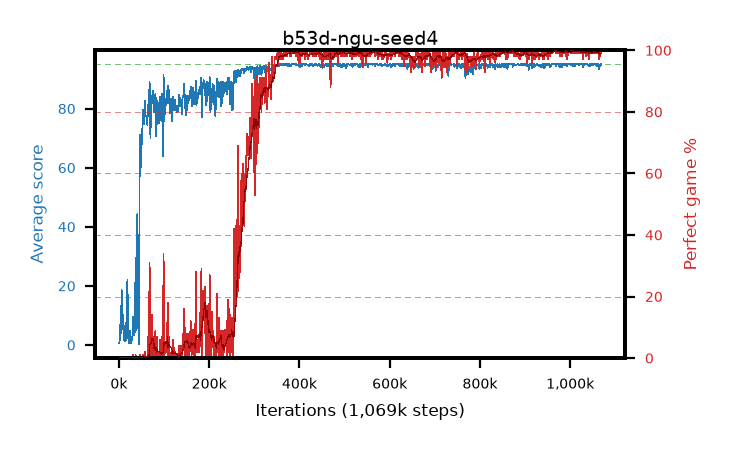
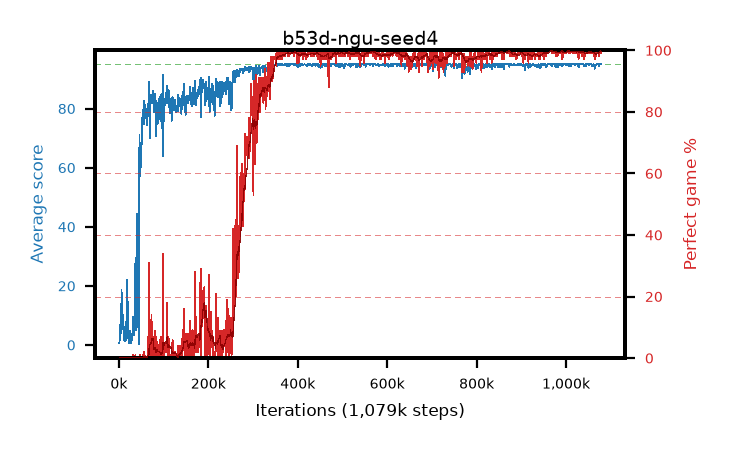
live pictures of 4 arm(s)

diff --git a/results/b53d-ngu-seed4/b53d-ngu-seed4.md b/results/b53d-ngu-seed4/b53d-ngu-seed4.md
@@ -1,6 +1,6 @@
 # b53d-ngu-seed4
 
-step **1,069,000** · 1069 evals · trailing **94.79** · peak **94.94** @1,040,000 · sef **71.7** · best30 **99.7** @1,024,000
+step **1,079,000** · 1079 evals · trailing **94.82** · peak **94.94** @1,040,000 · sef **72.0** · best30 **99.7** @1,024,000
 
 ## Config
 
@@ -80,15 +80,15 @@ step **1,069,000** · 1069 evals · trailing **94.79** · peak **94.94** @1,040,
 | 2000 | 2.39 | 1.47 | 0.0 | 8.0 | 1.286 | 0.0 | 0.4 |
 | 3000 | 6.99 | 3.31 | 0.0 | 25.0 | 5.34 | 0.0 | 0.4 |
 | ... | ... | ... | ... | ... | ... | ... | ... |
-| 1058000 | 94.51 | 94.9 | 46.0 | 95.0 | 192.163 | 99.0 | 0.4 |
-| 1059000 | 94.83 | 94.9 | 78.0 | 95.0 | 192.526 | 99.0 | 0.4 |
-| 1060000 | 94.29 | 94.88 | 24.0 | 95.0 | 191.936 | 99.0 | 0.4 |
-| 1061000 | 95.0 | 94.88 | 95.0 | 95.0 | 193.695 | 100.0 | 0.4 |
-| 1062000 | 95.0 | 94.88 | 95.0 | 95.0 | 193.698 | 100.0 | 0.4 |
-| 1063000 | 94.74 | 94.87 | 69.0 | 95.0 | 192.405 | 99.0 | 0.4 |
-| 1064000 | 93.53 | 94.82 | 22.0 | 95.0 | 189.143 | 97.0 | 0.4 |
-| 1065000 | 94.14 | 94.8 | 14.0 | 95.0 | 190.783 | 98.0 | 0.4 |
-| 1066000 | 94.91 | 94.8 | 89.0 | 95.0 | 191.615 | 98.0 | 0.4 |
-| 1067000 | 94.66 | 94.78 | 61.0 | 95.0 | 192.36 | 99.0 | 0.4 |
 | 1068000 | 95.0 | 94.79 | 95.0 | 95.0 | 193.665 | 100.0 | 0.4 |
 | 1069000 | 95.0 | 94.79 | 95.0 | 95.0 | 193.698 | 100.0 | 0.4 |
+| 1070000 | 95.0 | 94.79 | 95.0 | 95.0 | 193.707 | 100.0 | 0.4 |
+| 1071000 | 95.0 | 94.81 | 95.0 | 95.0 | 193.706 | 100.0 | 0.4 |
+| 1072000 | 95.0 | 94.81 | 95.0 | 95.0 | 193.704 | 100.0 | 0.4 |
+| 1073000 | 95.0 | 94.81 | 95.0 | 95.0 | 193.709 | 100.0 | 0.4 |
+| 1074000 | 94.31 | 94.79 | 47.0 | 95.0 | 190.97 | 98.0 | 0.4 |
+| 1075000 | 95.0 | 94.81 | 95.0 | 95.0 | 193.72 | 100.0 | 0.4 |
+| 1076000 | 95.0 | 94.81 | 95.0 | 95.0 | 193.708 | 100.0 | 0.4 |
+| 1077000 | 95.0 | 94.81 | 95.0 | 95.0 | 193.699 | 100.0 | 0.4 |
+| 1078000 | 94.98 | 94.82 | 93.0 | 95.0 | 192.676 | 99.0 | 0.4 |
+| 1079000 | 95.0 | 94.82 | 95.0 | 95.0 | 193.702 | 100.0 | 0.4 |

diff --git a/results/b53a-ngu-seed1/b53a-ngu-seed1.md b/results/b53a-ngu-seed1/b53a-ngu-seed1.md
@@ -1,6 +1,6 @@
 # b53a-ngu-seed1
 
-step **1,069,000** · 1069 evals · trailing **94.75** · peak **94.96** @643,000 · sef **73.7** · best30 **99.7** @643,000
+step **1,079,000** · 1079 evals · trailing **94.69** · peak **94.96** @643,000 · sef **74.0** · best30 **99.7** @643,000
 
 ## Config
 
@@ -80,15 +80,15 @@ step **1,069,000** · 1069 evals · trailing **94.75** · peak **94.96** @643,00
 | 2000 | 8.43 | 4.84 | 0.0 | 21.0 | 7.201 | 0.0 | 0.4 |
 | 3000 | 8.52 | 6.07 | 0.0 | 26.0 | 5.525 | 0.0 | 0.4 |
 | ... | ... | ... | ... | ... | ... | ... | ... |
-| 1058000 | 94.91 | 94.84 | 88.0 | 95.0 | 190.493 | 97.0 | 0.4 |
-| 1059000 | 94.97 | 94.85 | 92.0 | 95.0 | 192.667 | 99.0 | 0.4 |
-| 1060000 | 94.75 | 94.85 | 70.0 | 95.0 | 192.404 | 99.0 | 0.4 |
-| 1061000 | 94.85 | 94.84 | 88.0 | 95.0 | 189.433 | 96.0 | 0.4 |
-| 1062000 | 94.94 | 94.87 | 90.0 | 95.0 | 191.536 | 98.0 | 0.4 |
-| 1063000 | 94.85 | 94.87 | 86.0 | 95.0 | 190.503 | 97.0 | 0.4 |
-| 1064000 | 94.8 | 94.86 | 86.0 | 95.0 | 189.343 | 96.0 | 0.4 |
-| 1065000 | 94.75 | 94.85 | 71.0 | 95.0 | 191.362 | 98.0 | 0.4 |
-| 1066000 | 93.54 | 94.82 | 20.0 | 95.0 | 182.877 | 91.0 | 0.4 |
-| 1067000 | 94.27 | 94.79 | 42.0 | 95.0 | 188.814 | 96.0 | 0.4 |
 | 1068000 | 94.52 | 94.78 | 52.0 | 95.0 | 191.173 | 98.0 | 0.4 |
 | 1069000 | 94.2 | 94.75 | 24.0 | 95.0 | 190.792 | 98.0 | 0.4 |
+| 1070000 | 95.0 | 94.76 | 95.0 | 95.0 | 193.709 | 100.0 | 0.4 |
+| 1071000 | 95.0 | 94.76 | 95.0 | 95.0 | 193.687 | 100.0 | 0.4 |
+| 1072000 | 94.79 | 94.76 | 86.0 | 95.0 | 188.261 | 95.0 | 0.4 |
+| 1073000 | 94.99 | 94.76 | 94.0 | 95.0 | 192.633 | 99.0 | 0.4 |
+| 1074000 | 95.0 | 94.76 | 95.0 | 95.0 | 193.696 | 100.0 | 0.4 |
+| 1075000 | 94.25 | 94.75 | 22.0 | 95.0 | 190.868 | 98.0 | 0.4 |
+| 1076000 | 93.6 | 94.71 | 24.0 | 95.0 | 190.225 | 98.0 | 0.4 |
+| 1077000 | 94.95 | 94.71 | 90.0 | 95.0 | 192.637 | 99.0 | 0.4 |
+| 1078000 | 94.95 | 94.7 | 92.0 | 95.0 | 191.592 | 98.0 | 0.4 |
+| 1079000 | 94.21 | 94.69 | 16.0 | 95.0 | 191.864 | 99.0 | 0.4 |
